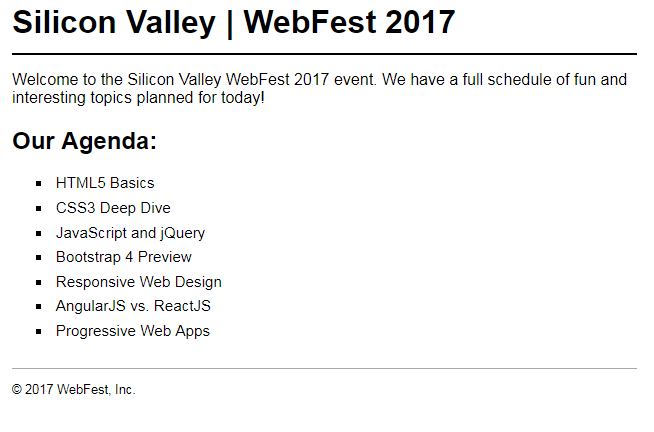
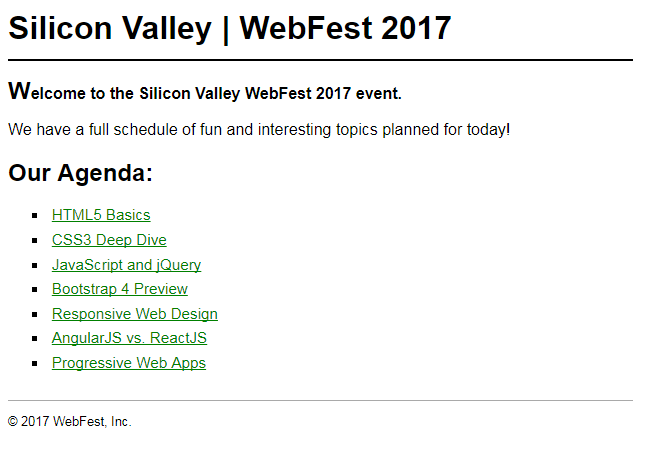
Update HTML5 ch-4 screenshot

diff --git a/murach-html5-css3/ch-4/index.html b/murach-html5-css3/ch-4/index.html
@@ -13,18 +13,19 @@
         <h1>Silicon Valley | WebFest 2017</h1>
     </header>
     <main>
-        <p>Welcome to the Silicon Valley WebFest 2017 event. We have a full schedule of fun and interesting topics planned for today!</p>
+        <p>Welcome to the Silicon Valley WebFest 2017 event.</p>
+        <p>We have a full schedule of fun and interesting topics planned for today!</p>
         
         <h2>Our Agenda:</h2>
         <nav>
             <ul>
-                <li>HTML5 Basics</li>
-                <li>CSS3 Deep Dive</li>
-                <li>JavaScript and jQuery</li>
-                <li>Bootstrap 4 Preview</li>
-                <li>Responsive Web Design</li>
-                <li>AngularJS vs. ReactJS</li>
-                <li>Progressive Web Apps</li>
+                <li><a href="#">HTML5 Basics</a></li>
+                <li><a href="#">CSS3 Deep Dive</a></li>
+                <li><a href="#">JavaScript and jQuery</a></li>
+                <li><a href="#">Bootstrap 4 Preview</a></li>
+                <li><a href="#">Responsive Web Design</a></li>
+                <li><a href="#">AngularJS vs. ReactJS</a></li>
+                <li><a href="#">Progressive Web Apps</a></li>
             </ul>
         </nav>
     </main>  

diff --git a/murach-html5-css3/ch-4/style.css b/murach-html5-css3/ch-4/style.css
@@ -10,6 +10,14 @@ header {
     margin-bottom: 0;
 }
 
+main p:first-child {
+    font-weight: bold;    
+}
+
+main p:first-child::first-letter {
+    font-size: 150%;
+}
+
 nav {
     font-size: .95em;    
 }
@@ -28,6 +36,9 @@ h2 {
     font-size: 150%;
     margin-bottom: 0;
 }
+
+a:link { color: green; }
+a:hover, a:focus { color: blue; }
 
 footer {
     font-size: .8em;
